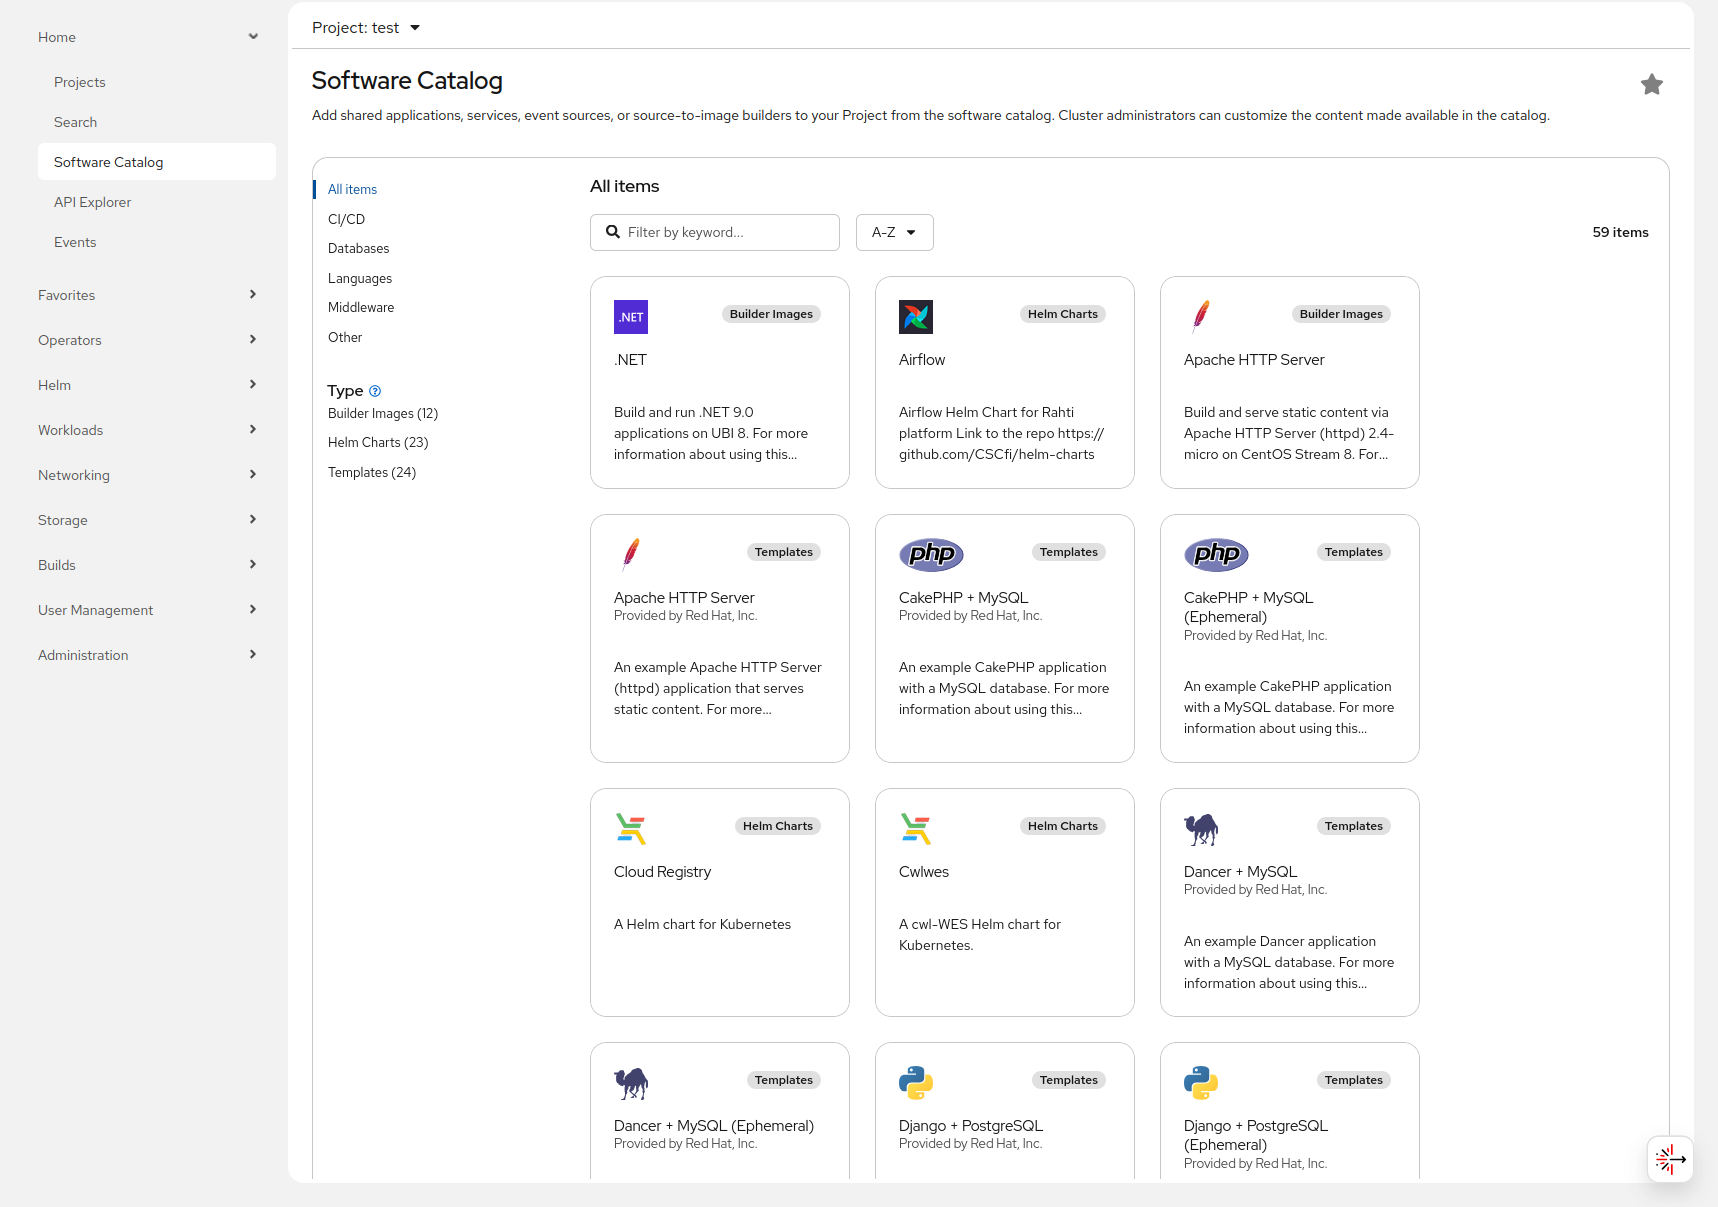
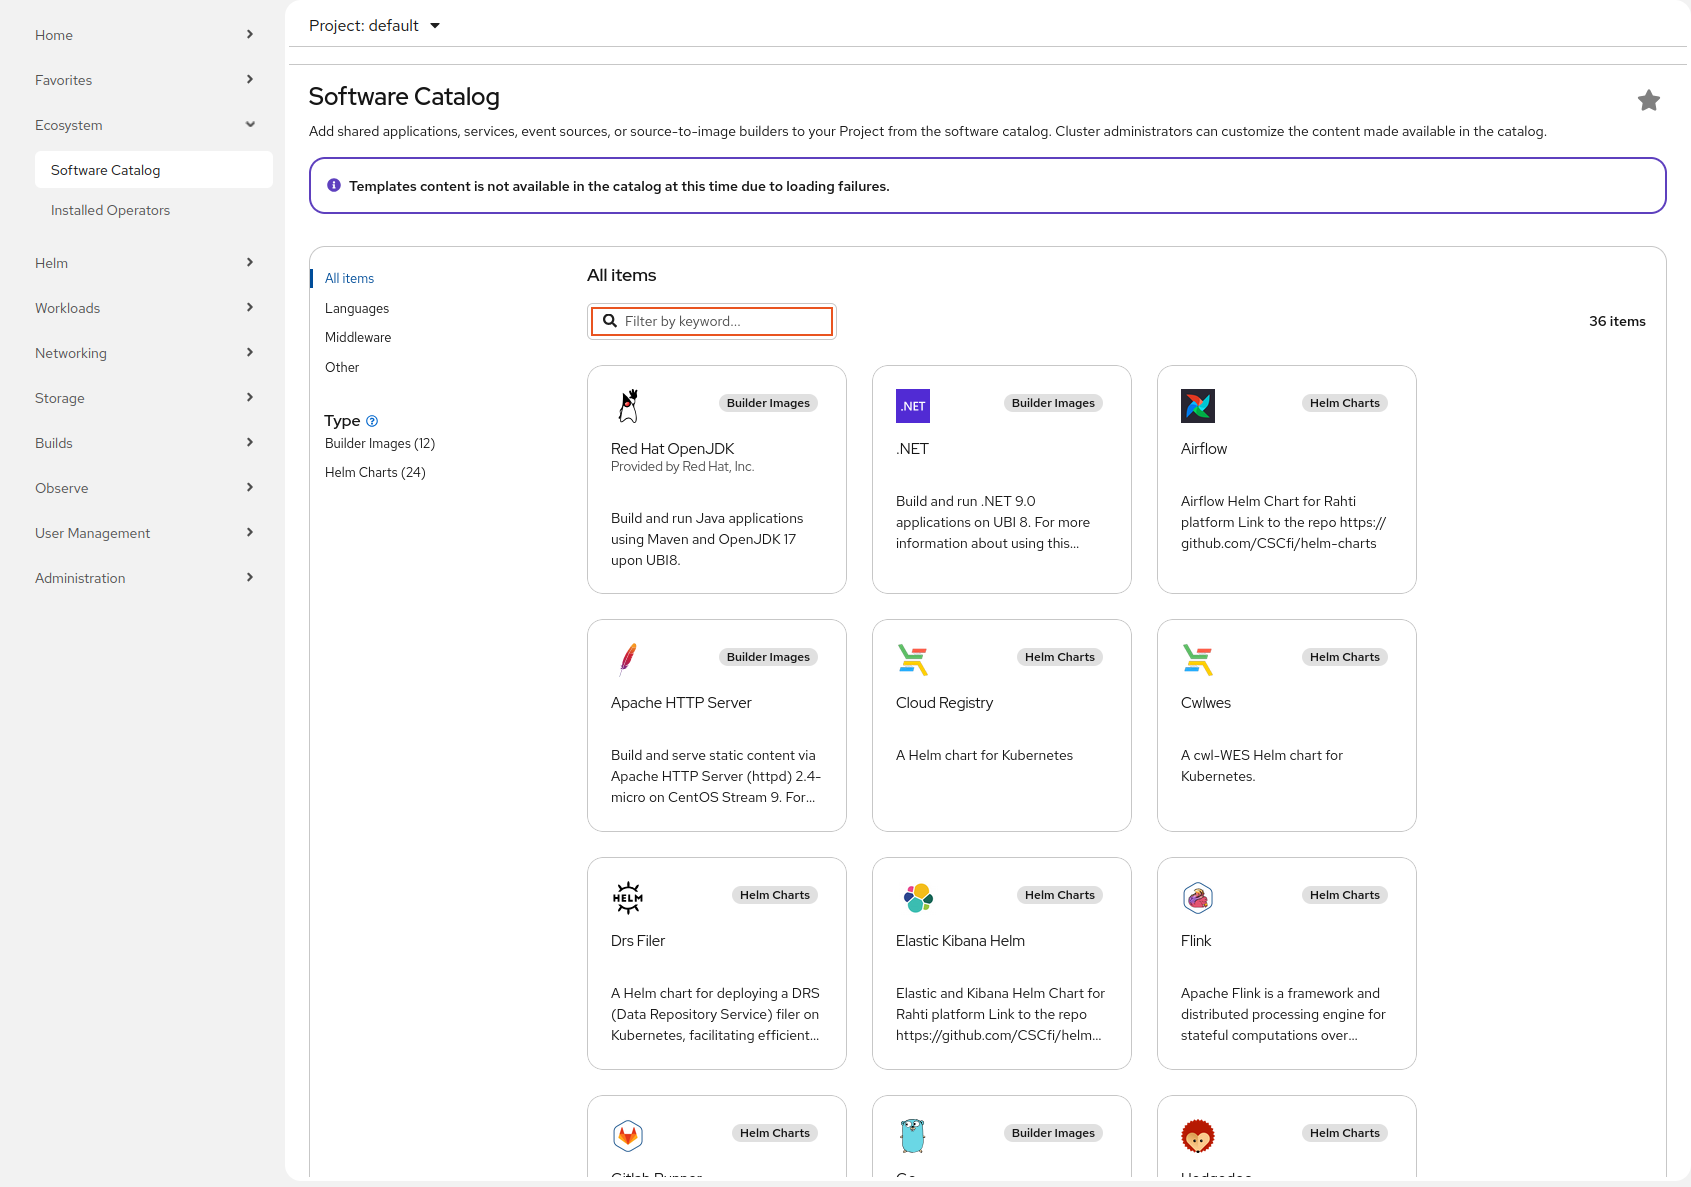
fix: software catalog replacemnt

diff --git a/docs/cloud/rahti/tutorials/deploy_static_webserver_webconsole.md b/docs/cloud/rahti/tutorials/deploy_static_webserver_webconsole.md
@@ -8,8 +8,8 @@ How to set up a static web server in Rahti.
 
 1. Create a project. [Instructions](../usage/projects_and_quota.md)
 
-2. In the Openshift web console, in left hand side menu, click on `Software Catalog` under `Home` dropdown list. 
-    ![Select-httpd](../../img/select-http.png)
+2. In the Openshift web console, in left hand side menu, click on `Software Catalog` under `Ecosystem` dropdown list. 
+    ![Select-httpd](../../img/rahti-catalog.png)
 
 3. To create an application, search and click _Apache HTTP Server_, since templates are deprecated now, please use builder image only. Now, click on  _create_ on the pop-up window on the right.
     ![Instantiate-template](../../img/click-template.png)

diff --git a/docs/cloud/rahti/catalog-docs.md b/docs/cloud/rahti/catalog-docs.md
@@ -35,7 +35,7 @@ You will find the instructions on how to import the images into your namespace/R
     
     You can find more information on how to push images [here](./images/Using_Rahti_integrated_registry.md)
 
-You can browse the catalog from the webinterface after (1) logging in Rahti and then (2) Clicking on `Home` -> `Software Catalog`.
+You can browse the catalog from the webinterface after (1) logging in Rahti and then (2) Clicking on `Ecosystem` -> `Software Catalog`.
 
 ![+Add](../img/rahti-catalog.png)
 

diff --git a/docs/cloud/rahti/usage/getting_started.md b/docs/cloud/rahti/usage/getting_started.md
@@ -8,7 +8,7 @@ containers, volumes and other resources created by users are always created
 within a project. You might need to wait a few hours after your access application is accepted, before you can 
 authenticate to Rahti.
 
-You can either select applications to run from Home -> Software Catalog after [creating a project](projects_and_quota.md) or launch any applications using the
+You can either select applications to run from `Ecosystem` -> `Software Catalog` after [creating a project](projects_and_quota.md) or launch any applications using the
 primitives described in the [background](../concepts.md) chapter.
 
 1. Log in at <https://rahti.csc.fi/>.